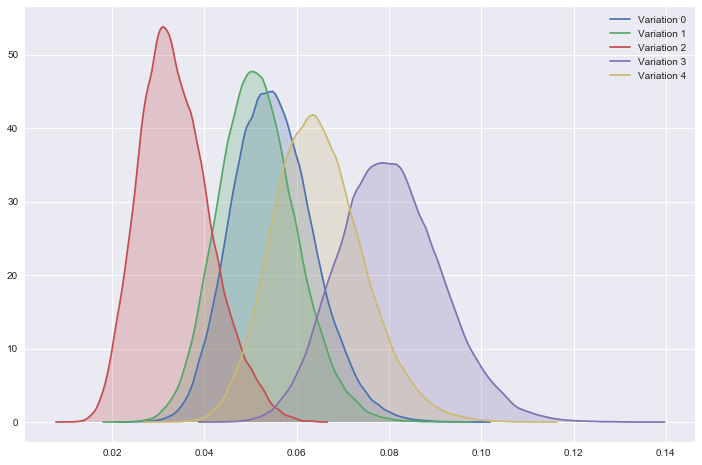
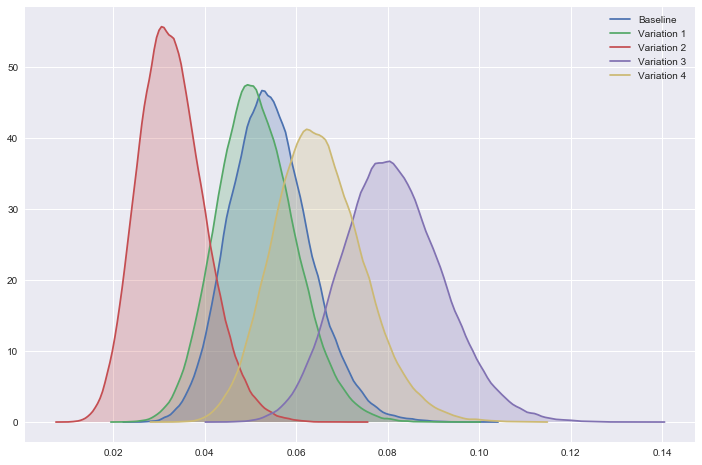
updated ez and galvanize examples

diff --git a/ab/q3-Copy1.md b/ab/q3-Copy1.md
@@ -100,9 +100,10 @@ Without these granular data, we can at least look at the quote rate per variatio
 
 
 ```python
-df['Empirical rate %'] = df.Quotes / df.Views *100    #divides Quotes column by Views 
-df['Empirical rate %'] = df['Empirical rate %'] .round(2)            #rounds to two decimal places 
-df.set_index("Bucket", inplace = True )     #changes the index to 'Bucket'
+# divides Quotes column by Views
+df['Empirical rate %'] = (df.Quotes / df.Views * 100).round(2)
+# changes the index to 'Bucket'
+df.set_index("Bucket", inplace=True)
 df
 ```
 
@@ -196,13 +197,13 @@ def sample_size(p1, p2, sig):
 
 ```python
 # Sample size needed to have statistical significance
-sample_size(.0545, .0847, .05)
+sample_size(.0538, .0847, .05)
 ```
 
 
 
 
-    1101
+    1046
 
 
 
@@ -223,14 +224,16 @@ sample_size(.0545, .0966, .05)
 
 Looking at the 'Empirical rate %' column we see that Variation 3 performed the best with 8.42%, followed by Variation 4 with 6.57%. The other two variations performed below the Baseline, 5.38%.
 
-If we wanted to know about the confidence interval in the rates, we would invoke Bayesian statistics. By performing Bayesian statistics, we are interested in modeling the posterior distribution: Prob(True Quote Rate | Data) ~ Prob(Data|True Quote Rate)·Prob(True Quote Rate). We do so by treating the data as a Bernoulli distribution, assuming quotes are independent. For a Bernoulli distribution, we could say a quote sent is a 'success' or 1; a quote not sent, 0. In order to do so, we'll first need to generate binomial data for the variations. 
+If we wanted to know about the confidence interval in the rates, we would invoke Bayesian statistics. By performing Bayesian statistics, we are interested in modeling the posterior distribution: $Prob(True~Quote~Rate~|~Data) \propto Prob(Data~|~True~Quote~Rate)·Prob(True~Quote~Rate)$. We do so by treating the data as a Bernoulli distribution, assuming quotes are independent. For a Bernoulli distribution, we could say a quote sent is a 'success' or 1; a quote not sent, 0. In order to do so, we'll first need to generate binomial data for the variations. 
 
 
 ```python
-#Generate list data for variations 
-def simulated_data(data_name):  #Counts Quotes as ones and generates zeros for rest of list 
-    data = [1]*df.get_value(data_name, 'Quotes') + [0]*(df.get_value(data_name, 'Views') - df.get_value(data_name, 'Quotes'))    
-    return data 
+# Generate list data for variations
+def simulated_data(data_name):
+    # Counts Quotes as ones and generates zeros for rest of list
+    data = [1] * df.at[data_name, 'Quotes'] + [0] * (
+        df.at[data_name, 'Views'] - df.at[data_name, 'Quotes'])
+    return data
 ```
 
 
@@ -243,10 +246,6 @@ var3 = simulated_data("Variation 3")
 var4 = simulated_data("Variation 4")
 ```
 
-    /Users/cristian/anaconda/lib/python3.6/site-packages/ipykernel/__main__.py:3: FutureWarning: get_value is deprecated and will be removed in a future release. Please use .at[] or .iat[] accessors instead
-      app.launch_new_instance()
-
-
 
 ```python
 #First 40 data points for Variation 1, notice zeros after 30 ones
@@ -258,7 +257,7 @@ print("Data from var1: ", var1[:40], "...")
 
 ### Determining Variation 3 rate with Bayes analysis 
 
-Below we see, Bayes analysis yields a Variation 3 rate of 8.6%, similar to the Empirical data; however, now we have the 95% confidence interval (CI)  (6.4%, 10.8%). More data would tighten up the CI.
+Below we see, Bayes analysis yields a Variation 3 rate of 8.6%, similar to the Empirical data; however, now we have the 95% confidence interval (CI)  (6.4%, 10.8%). More data could potentially tighten up the CI.
 
 
 ```python
@@ -370,9 +369,11 @@ b = hyperpriors[1]
 true_rates = pymc.Beta('true_rates', a, b, size=5)
 
 # The observed values
-trials = df.Views.as_matrix() #Passes array of values 
-successes = df.Quotes.as_matrix() #Passes array 
-observed_values = pymc.Binomial('observed_values', trials, true_rates, observed=True, value=successes)
+trials = df.Views.values  # Passes array of values
+successes = df.Quotes.values  # Passes array
+# Likelihood
+observed_values = pymc.Binomial(
+    'observed_values', trials, true_rates, observed=True, value=successes)
 
 model = pymc.Model([a, b, true_rates, observed_values])
 mcmc = pymc.MCMC(model)
@@ -381,13 +382,13 @@ mcmc = pymc.MCMC(model)
 mcmc.sample(1000000, 500000)
 ```
 
-     [-----------------100%-----------------] 1000000 of 1000000 complete in 218.4 sec
+     [-----------------100%-----------------] 1000000 of 1000000 complete in 217.9 sec
 
 
 ```python
 plt.figure(figsize=(12,8))
 for i in range(5):
-    sns.kdeplot(mcmc.trace('true_rates')[:][:,i], shade = True, label = "Variation %s" % chr(48+i))
+    sns.kdeplot(mcmc.trace('true_rates')[:][:,i], shade = True, label = list(df.index)[i])
 ```
 
 
@@ -494,3 +495,31 @@ Calculating A/B Test Sample Size From the analysis 'Variation 3' is the clear wi
 If you were trying to increase quotes in specific categories or cities, then over these specific categories and cities a similar analysis could be run. 
 
 Other metrics that would have been of use: What is the conversion rate for quotes sent? Armed with conversion rates an expected return could be calculated. That would be an important metric to convey the return on investment. 
+
+
+```python
+%watermark -dmvgp numpy,pandas,matplotlib,seaborn,patsy,pymc3,theano
+```
+
+    2017-12-14 
+    
+    CPython 3.6.3
+    IPython 6.2.1
+    
+    numpy 1.13.3
+    pandas 0.21.0
+    matplotlib 2.0.0
+    seaborn 0.7.1
+    patsy 0.4.1
+    pymc3 3.2
+    theano 1.0.1
+    
+    compiler   : GCC 4.2.1 Compatible Clang 4.0.1 (tags/RELEASE_401/final)
+    system     : Darwin
+    release    : 17.3.0
+    machine    : x86_64
+    processor  : i386
+    CPU cores  : 4
+    interpreter: 64bit
+    Git hash   : 8c9602dfa4728c90128c698c29da7551751f0fc7
+

diff --git a/README.md b/README.md
@@ -4,9 +4,9 @@
 
 #### Data Storytelling
 
-* [**Web Crawling for data:**](/macys/2017-11-12_ch_macys_product_list.md) Capturing data with a [scrapy](https://scrapy.org/) web spider, an open source framework for data scraping. This web spider crawls a retailers site to build an inventory list with prices. The spider-generated inventory table contains over 135,000 entries. Because it could be run through a cloud service, e.g. Scrapy Cloud, this method is extensible and scalable. <br />  **Keywords:** Web Spider, Web Crawler, Scrapy, Pandas, Data visualization
-
 * [**Split Test Analysis with Bayes Statistics:**](/ab/q3-Copy1.md) A product split test analysis starting from a table of coversion rates. <br />  **Keywords:** A/B Test, Bayesian inference, Pandas, Data visualization, Calculating A/B Test Sample Size, Credible Interval 
+
+* [**Web Crawling for data:**](/macys/2017-11-12_ch_macys_product_list.md) Capturing data with a [scrapy](https://scrapy.org/) web spider, an open source framework for data scraping. This web spider crawls a retailers site to build an inventory list with prices. The spider-generated inventory table contains over 135,000 entries. Because it could be run through a cloud service, e.g. Scrapy Cloud, this method is extensible and scalable. <br />  **Keywords:** Web Spider, Web Crawler, Scrapy, Pandas, Data visualization
 
 * [**Geographic sales data:**](/ez/2017-10-30_ch_ez_assignment.md) A sample of geographic sales data for California. Geospatial data (latitude and longitude) is logged from two CSV files and merged into one table by order identification. The geo data is used to extrapolate zip code, city, and average income. <br />  **Keywords:** Econometrics, Geographic data, Pandas, Google maps, Heatmap, Data analytics, Table merge 
 

diff --git a/ez/2017-10-30_ch_ez_assignment.md b/ez/2017-10-30_ch_ez_assignment.md
@@ -980,16 +980,6 @@ fig.add_layer(gmaps.heatmap_layer(locations))
 embed_minimal_html('map.html', views=[fig])
 ```
 
-
-```python
-%%HTML
-<iframe width = "100%" height = "475" src="map.html"></ iframe>
-```
-
-
-<iframe width = "100%" height = "475" src="map.html"></ iframe>
-
-
 # Conclusion
 
 ## Insights to advance a company financially
@@ -1003,4 +993,14 @@ The next graphic of interest is the **Estimated Delivery Time [s] histogram**. I
 Unfortunately, there was insufficient day and time data. Such data could have yielded the day and time most purchases are made. Armed with that information, one such testable hypothesis, perhaps on a smaller market, could have been to run promotions on days when sales are low. 
 
 The heatmap below shows hot spots for where most of the sales are geographical generated. Most of the high-density locations (Bay Area, Los Angeles, San Diego) are well represented. However, medium-sized cities like Sacramento and Fresno are virtually untapped. Moreover, the San Joaquin Valley is a largely untapped market.
+
+
+
+```python
+%%HTML
+<iframe width = "100%" height = "475" src="map.html"></ iframe>
+```
+
+
+<iframe width = "100%" height = "475" src="map.html"></ iframe>
 
